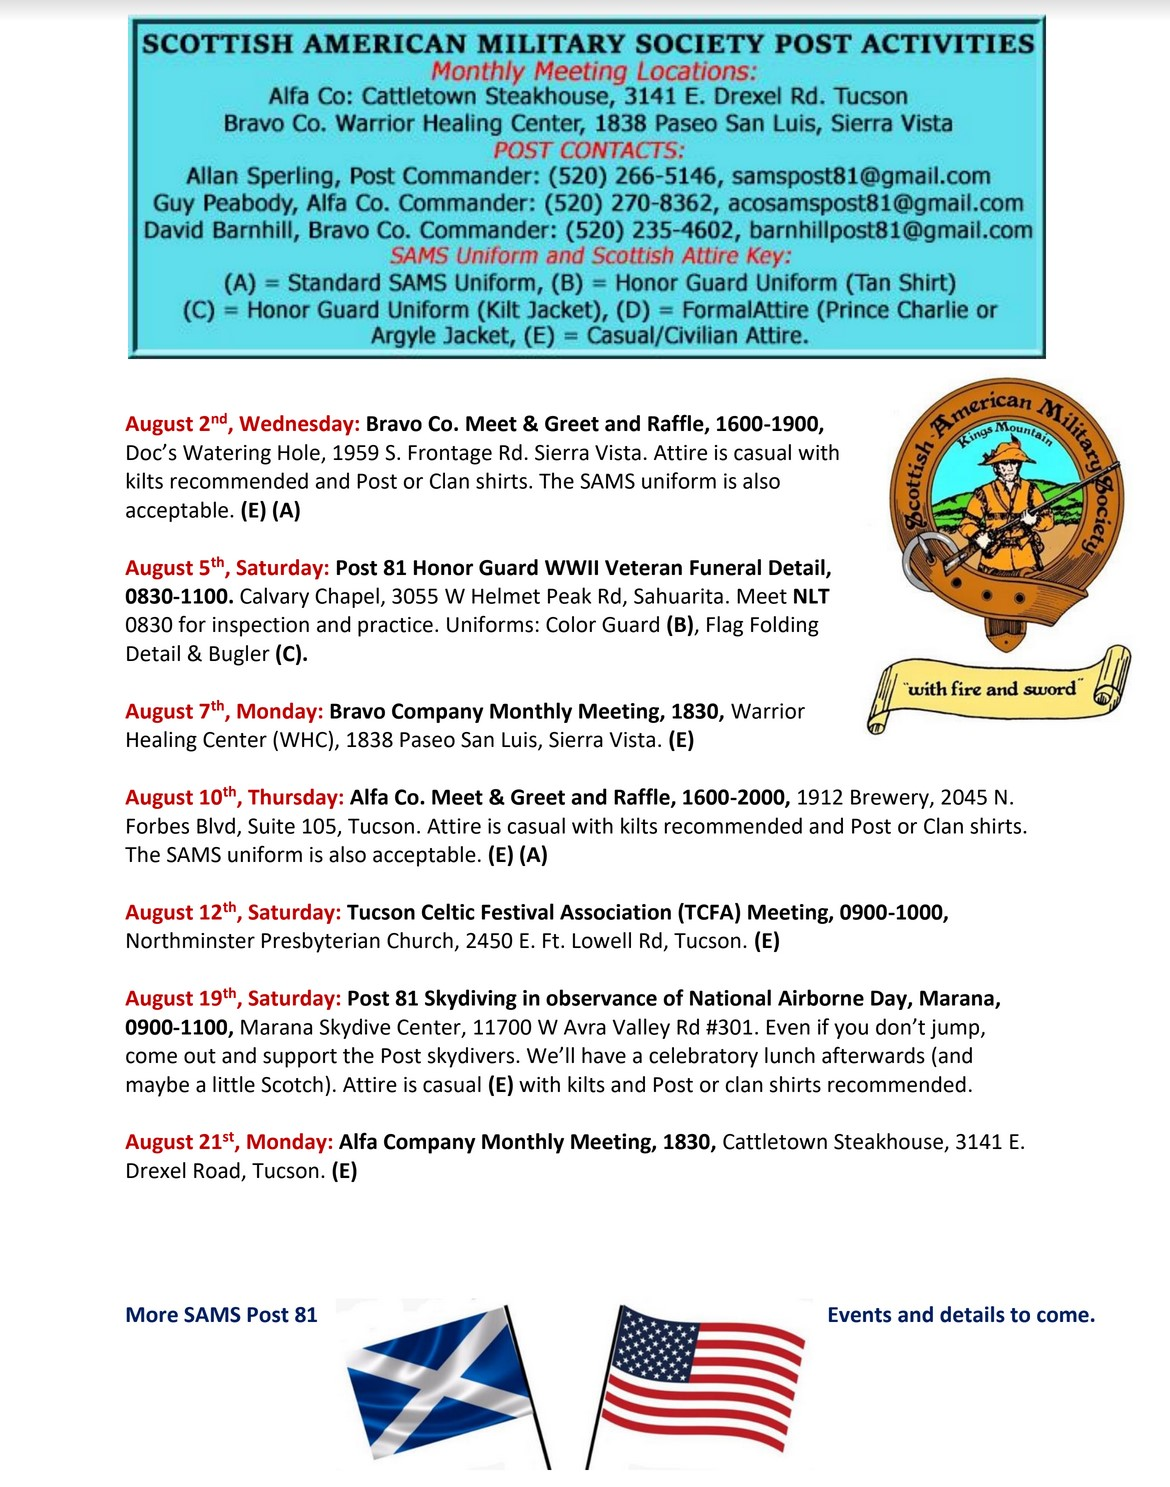
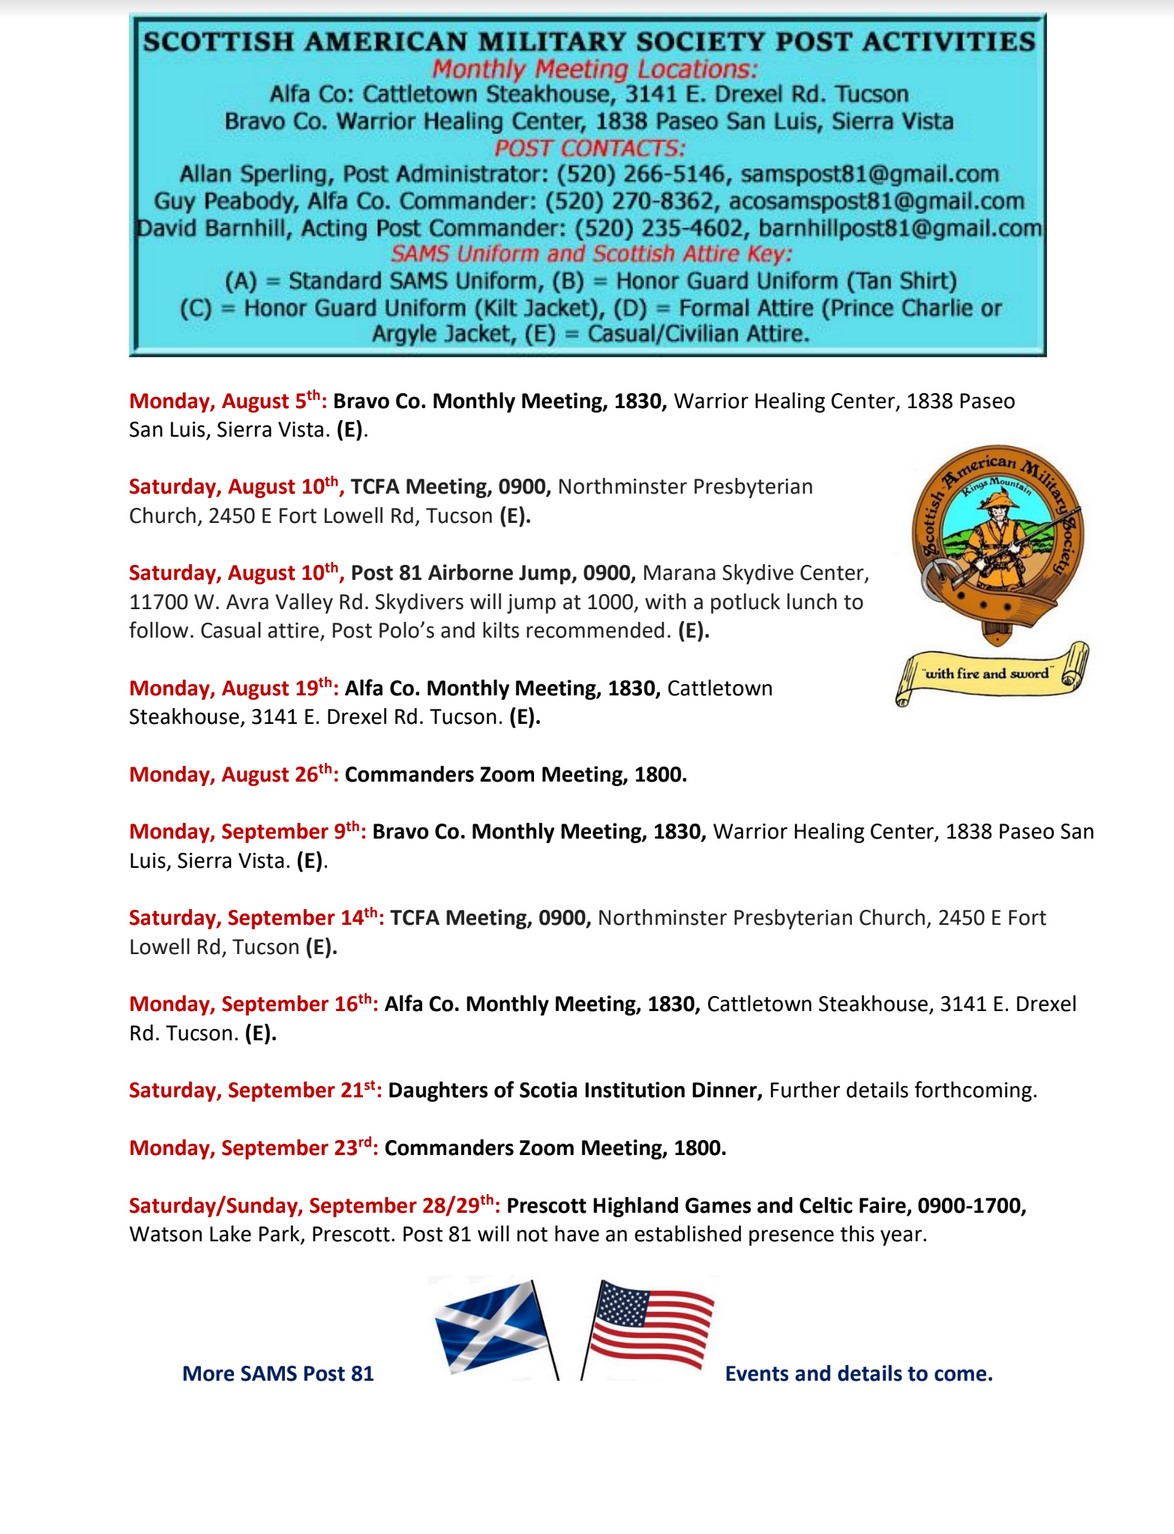
august calender

Changed region(s): [[0.0923, 0.0, 0.9846, 0.9899]]

diff --git a/index.html b/index.html
@@ -214,7 +214,7 @@
         <h2>Events</h2>
         <div class="events__container">
             <div class="events__img">
-                <img src="docs/juneCal.jpg" alt="Events Calender">
+                <img src="docs/augustCal.jpg" alt="Events Calender">
             </div>
         </div>
     </section>
